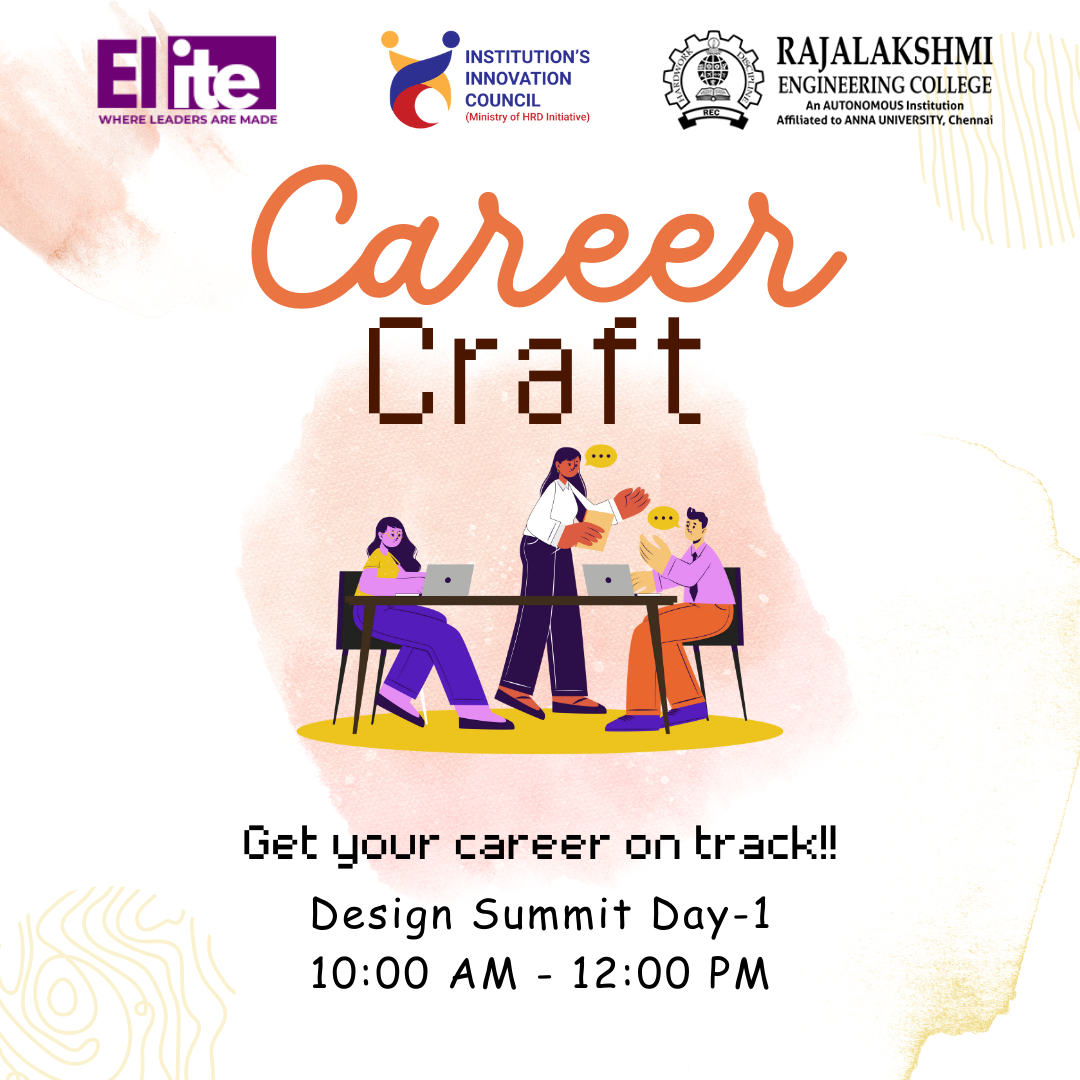
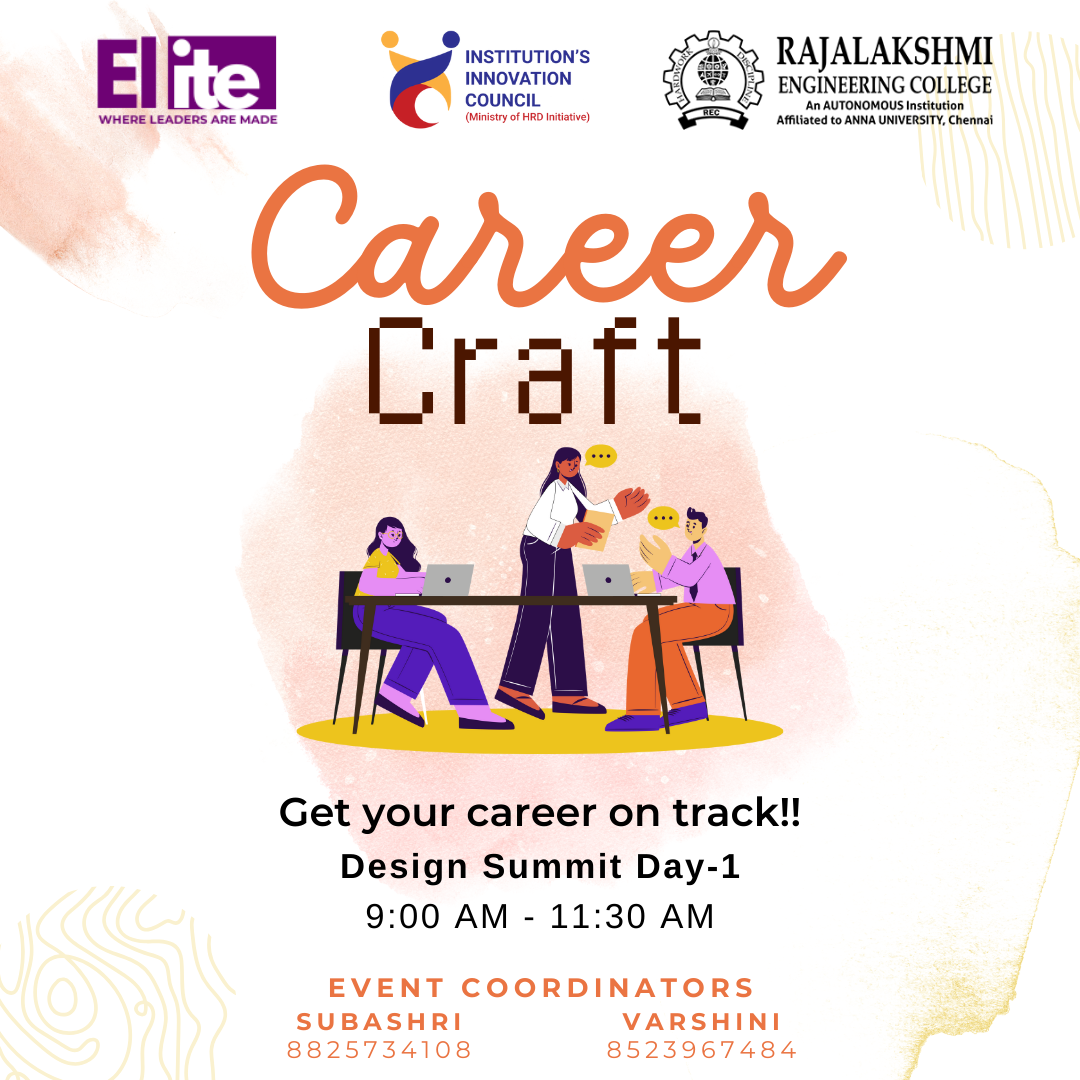
dates updated for the posters

Changed region(s): [[0.2139, 0.7333, 0.7944, 0.9778], [0.7028, 0.825, 0.7333, 0.8556]]

diff --git a/src/App.jsx b/src/App.jsx
@@ -89,8 +89,8 @@ const App = () => {
           </div>
         </div>
         {/* <FlipTimer /> */}
-        {/* <Cardlayout /> */}
-        <Postponed />
+        <Cardlayout />
+        {/* <Postponed /> */}
         <Footer />
       </div>
     </>
